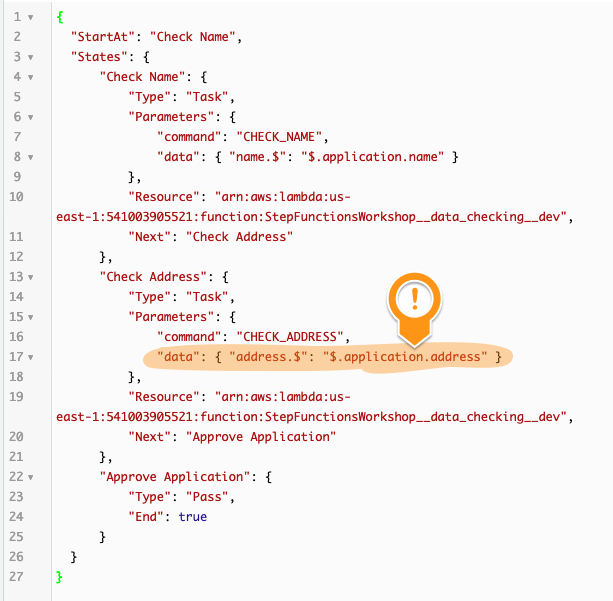
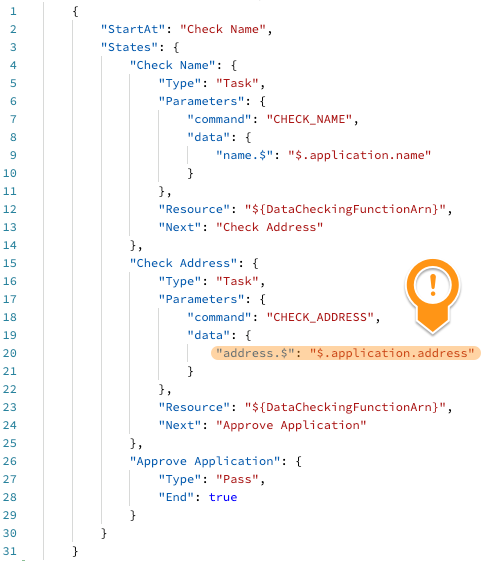
more progress on fixing permissions

Changed region(s): [[0.0, 0.0, 0.9717, 1.0], [0.1518, 0.8788, 0.1822, 0.9091]]

diff --git a/website/content/40_our_first_orchestration/40_fixing_permissions.md b/website/content/40_our_first_orchestration/40_fixing_permissions.md
@@ -20,9 +20,9 @@ Before we migrate our step function definition over to our `template.yml` file, 
 
 ➡ Step 2. Select the state machne that we manually defined earlier, click ‘Delete’, and click ‘Delete state machine’ to confirm the deletion.
 
-➡ Step 3. Now, let’s re-define our state machine inside our `template.yaml` file. Replace `template.yml` with <span class="clipBtn clipboard" data-clipboard-target="#id1dea1a636c7b56dc581384fdd0f8d7b8bf5faec1codevariantstemplateyml1fixingpermissions__templateyaml">this content</span> (click the gray button to copy to clipboard). 
+➡ Step 3. Now, let’s re-define our state machine inside our `template.yaml` file. Replace `template.yml` with <span class="clipBtn clipboard" data-clipboard-target="#ida0d7df16df74104c36cb221ee8f4f61bab25ef76codevariantstemplateyml1fixingpermissions__templateyaml">this content</span> (click the gray button to copy to clipboard). 
 {{< expand "Click to view diff" >}} {{< safehtml >}}
-<div id="diff-id1dea1a636c7b56dc581384fdd0f8d7b8bf5faec1codevariantstemplateyml1fixingpermissions__templateyaml"></div> <script type="text/template" data-diff-for="diff-id1dea1a636c7b56dc581384fdd0f8d7b8bf5faec1codevariantstemplateyml1fixingpermissions__templateyaml">commit 1dea1a636c7b56dc581384fdd0f8d7b8bf5faec1
+<div id="diff-ida0d7df16df74104c36cb221ee8f4f61bab25ef76codevariantstemplateyml1fixingpermissions__templateyaml"></div> <script type="text/template" data-diff-for="diff-ida0d7df16df74104c36cb221ee8f4f61bab25ef76codevariantstemplateyml1fixingpermissions__templateyaml">commit a0d7df16df74104c36cb221ee8f4f61bab25ef76
 Author: Gabe Hollombe <gabe@avantbard.com>
 Date:   Tue Jun 9 13:55:58 2020 +0800
 
@@ -175,7 +175,7 @@ index 0000000..1261b13
 </script>
 {{< /safehtml >}} {{< /expand >}}
 {{< safehtml >}}
-<textarea id="id1dea1a636c7b56dc581384fdd0f8d7b8bf5faec1codevariantstemplateyml1fixingpermissions__templateyaml" style="position: relative; left: -1000px; width: 1px; height: 1px;">AWSTemplateFormatVersion: "2010-09-09"
+<textarea id="ida0d7df16df74104c36cb221ee8f4f61bab25ef76codevariantstemplateyml1fixingpermissions__templateyaml" style="position: relative; left: -1000px; width: 1px; height: 1px;">AWSTemplateFormatVersion: "2010-09-09"
 Transform: AWS::Serverless-2016-10-31
 Description: Template for step-functions-workshop
 
@@ -322,9 +322,9 @@ mkdir -p statemachine && pushd statemachine && touch account-application-workflo
 
 This will create a `statemachine/account-application-workflow.asl.json` inside `workshop-dir`.
 
-➡ Step 5. Replace `statemachine/account-application-workflow.asl.json` with <span class="clipBtn clipboard" data-clipboard-target="#id1dea1a636c7b56dc581384fdd0f8d7b8bf5faec1codevariantsstatemachine1firstversion__accountapplicationworkflowasljson">this content</span> (click the gray button to copy to clipboard). 
+➡ Step 5. Replace `statemachine/account-application-workflow.asl.json` with <span class="clipBtn clipboard" data-clipboard-target="#ida0d7df16df74104c36cb221ee8f4f61bab25ef76codevariantsstatemachine1firstversion__accountapplicationworkflowasljson">this content</span> (click the gray button to copy to clipboard). 
 {{< expand "Click to view diff" >}} {{< safehtml >}}
-<div id="diff-id1dea1a636c7b56dc581384fdd0f8d7b8bf5faec1codevariantsstatemachine1firstversion__accountapplicationworkflowasljson"></div> <script type="text/template" data-diff-for="diff-id1dea1a636c7b56dc581384fdd0f8d7b8bf5faec1codevariantsstatemachine1firstversion__accountapplicationworkflowasljson">commit 1dea1a636c7b56dc581384fdd0f8d7b8bf5faec1
+<div id="diff-ida0d7df16df74104c36cb221ee8f4f61bab25ef76codevariantsstatemachine1firstversion__accountapplicationworkflowasljson"></div> <script type="text/template" data-diff-for="diff-ida0d7df16df74104c36cb221ee8f4f61bab25ef76codevariantsstatemachine1firstversion__accountapplicationworkflowasljson">commit a0d7df16df74104c36cb221ee8f4f61bab25ef76
 Author: Gabe Hollombe <gabe@avantbard.com>
 Date:   Tue Jun 9 13:55:58 2020 +0800
 
@@ -332,7 +332,7 @@ Date:   Tue Jun 9 13:55:58 2020 +0800
 
 diff --git a/code/variants/statemachine/1-first-version__account-application-workflow.asl.json b/code/variants/statemachine/1-first-version__account-application-workflow.asl.json
 new file mode 100644
-index 0000000..4ba4a1a
+index 0000000..ebc80ed
 --- /dev/null
 +++ b/code/variants/statemachine/1-first-version__account-application-workflow.asl.json
 @@ -0,0 +1,31 @@
@@ -347,7 +347,7 @@ index 0000000..4ba4a1a
 +                        "name.$": "$.application.name"
 +                    }
 +                },
-+                "Resource": "${DataCheckingLambdaArn}",
++                "Resource": "${DataCheckingFunctionArn}",
 +                "Next": "Check Address"
 +            },
 +            "Check Address": {
@@ -358,7 +358,7 @@ index 0000000..4ba4a1a
 +                        "address.$": "$.application.address"
 +                    }
 +                },
-+                "Resource": "${DataCheckingLambdaArn}",
++                "Resource": "${DataCheckingFunctionArn}",
 +                "Next": "Approve Application"
 +            },
 +            "Approve Application": {
@@ -371,7 +371,7 @@ index 0000000..4ba4a1a
 </script>
 {{< /safehtml >}} {{< /expand >}}
 {{< safehtml >}}
-<textarea id="id1dea1a636c7b56dc581384fdd0f8d7b8bf5faec1codevariantsstatemachine1firstversion__accountapplicationworkflowasljson" style="position: relative; left: -1000px; width: 1px; height: 1px;">    {
+<textarea id="ida0d7df16df74104c36cb221ee8f4f61bab25ef76codevariantsstatemachine1firstversion__accountapplicationworkflowasljson" style="position: relative; left: -1000px; width: 1px; height: 1px;">    {
         "StartAt": "Check Name",
         "States": {
             "Check Name": {
@@ -382,7 +382,7 @@ index 0000000..4ba4a1a
                         "name.$": "$.application.name"
                     }
                 },
-                "Resource": "${DataCheckingLambdaArn}",
+                "Resource": "${DataCheckingFunctionArn}",
                 "Next": "Check Address"
             },
             "Check Address": {
@@ -393,7 +393,7 @@ index 0000000..4ba4a1a
                         "address.$": "$.application.address"
                     }
                 },
-                "Resource": "${DataCheckingLambdaArn}",
+                "Resource": "${DataCheckingFunctionArn}",
                 "Next": "Approve Application"
             },
             "Approve Application": {
@@ -415,7 +415,7 @@ sam build && sam deploy
 
 ### Try it out
 
-➡ Step 1. Head back to the Step Functions web console and look for a state machine named `StepFunctionsWorkshop__process_account_applications__dev` and click it. This is the re-deployed version of our state machine. The new version of our state machine hasn’t changed, except that we granted its IAM role permissions to invoke our Data Checking lambda. Let’s try executing it again with some sample input to see what happens.
+➡ Step 1. Head back to the Step Functions web console and look for a state machine named `ApplicationProcessingStateMachine-xxxxxxxxxxxx` and click it (note: the x's shown here are placehodlers for a suffix unique to your deployment). This is the re-deployed version of our state machine. The new version of our state machine hasn’t changed, except that we granted its IAM role permissions to invoke our Data Checking lambda. Let’s try executing it again with some sample input to see what happens.
 
 ➡ Step 2. Click ‘Start execution’
 

diff --git a/website/source_content/40_our_first_orchestration/40_fixing_permissions.md b/website/source_content/40_our_first_orchestration/40_fixing_permissions.md
@@ -20,7 +20,7 @@ Before we migrate our step function definition over to our `template.yml` file, 
 
 ➡ Step 2. Select the state machne that we manually defined earlier, click ‘Delete’, and click ‘Delete state machine’ to confirm the deletion.
 
-➡ Step 3. Now, let’s re-define our state machine inside our `template.yaml` file. Replace `template.yml` with ___CLIPBOARD_BUTTON 1dea1a636c7b56dc581384fdd0f8d7b8bf5faec1:code/variants/template.yml/1-fixing-permissions__template.yaml|
+➡ Step 3. Now, let’s re-define our state machine inside our `template.yaml` file. Replace `template.yml` with ___CLIPBOARD_BUTTON a0d7df16df74104c36cb221ee8f4f61bab25ef76:code/variants/template.yml/1-fixing-permissions__template.yaml|
 
 ➡ Step 4. From inside `workshop-dir` run:
 ```bash
@@ -29,7 +29,7 @@ mkdir -p statemachine && pushd statemachine && touch account-application-workflo
 
 This will create a `statemachine/account-application-workflow.asl.json` inside `workshop-dir`.
 
-➡ Step 5. Replace `statemachine/account-application-workflow.asl.json` with ___CLIPBOARD_BUTTON 1dea1a636c7b56dc581384fdd0f8d7b8bf5faec1:code/variants/statemachine/1-first-version__account-application-workflow.asl.json|
+➡ Step 5. Replace `statemachine/account-application-workflow.asl.json` with ___CLIPBOARD_BUTTON a0d7df16df74104c36cb221ee8f4f61bab25ef76:code/variants/statemachine/1-first-version__account-application-workflow.asl.json|
 
 
 ➡ Step 6. Redeploy our application:
@@ -41,7 +41,7 @@ sam build && sam deploy
 
 ### Try it out
 
-➡ Step 1. Head back to the Step Functions web console and look for a state machine named `StepFunctionsWorkshop__process_account_applications__dev` and click it. This is the re-deployed version of our state machine. The new version of our state machine hasn’t changed, except that we granted its IAM role permissions to invoke our Data Checking lambda. Let’s try executing it again with some sample input to see what happens.
+➡ Step 1. Head back to the Step Functions web console and look for a state machine named `ApplicationProcessingStateMachine-xxxxxxxxxxxx` and click it (note: the x's shown here are placehodlers for a suffix unique to your deployment). This is the re-deployed version of our state machine. The new version of our state machine hasn’t changed, except that we granted its IAM role permissions to invoke our Data Checking lambda. Let’s try executing it again with some sample input to see what happens.
 
 ➡ Step 2. Click ‘Start execution’
 
